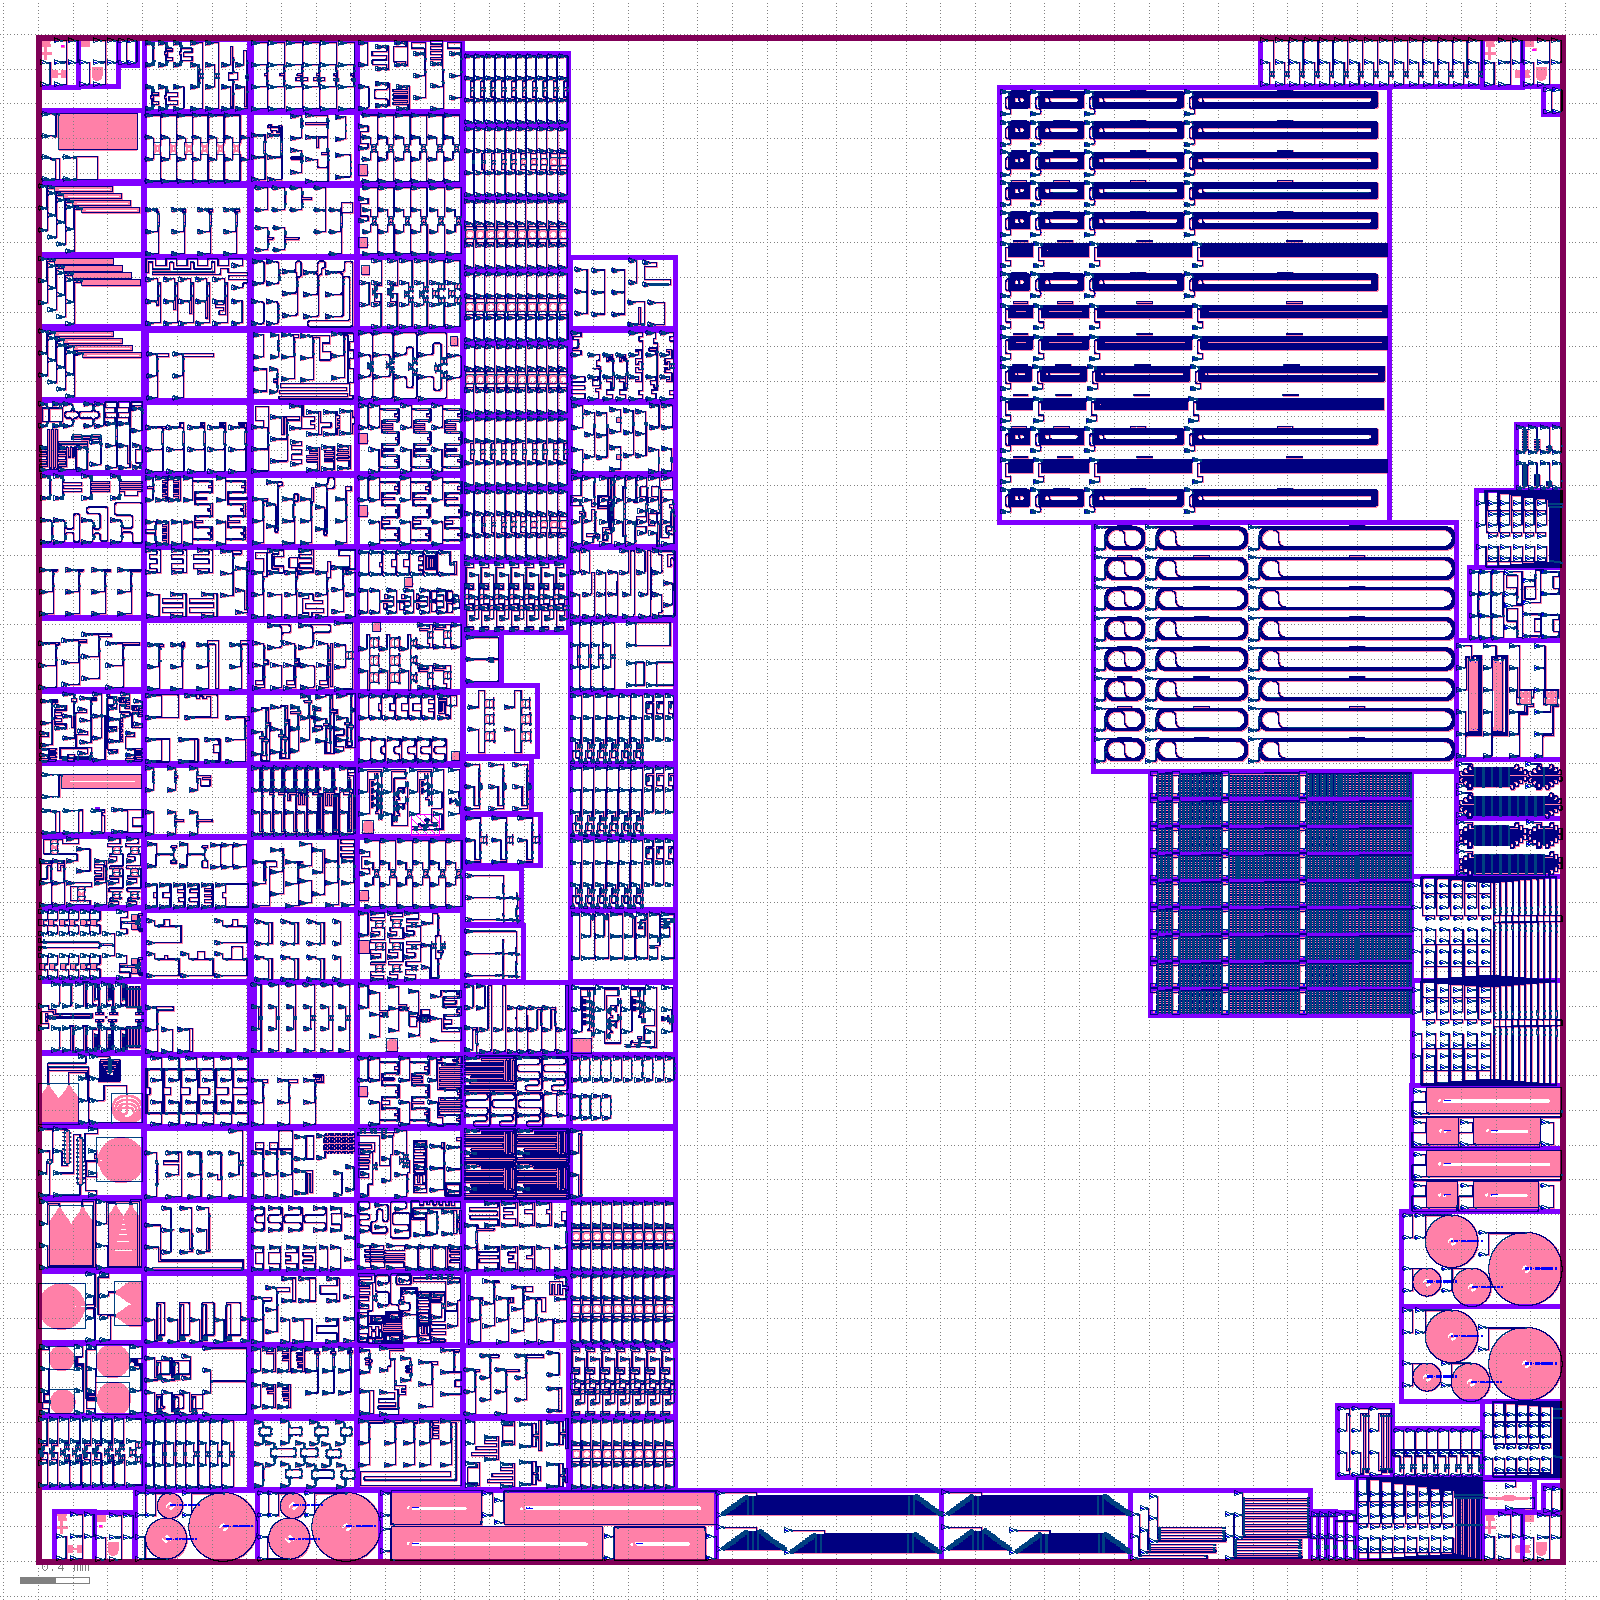
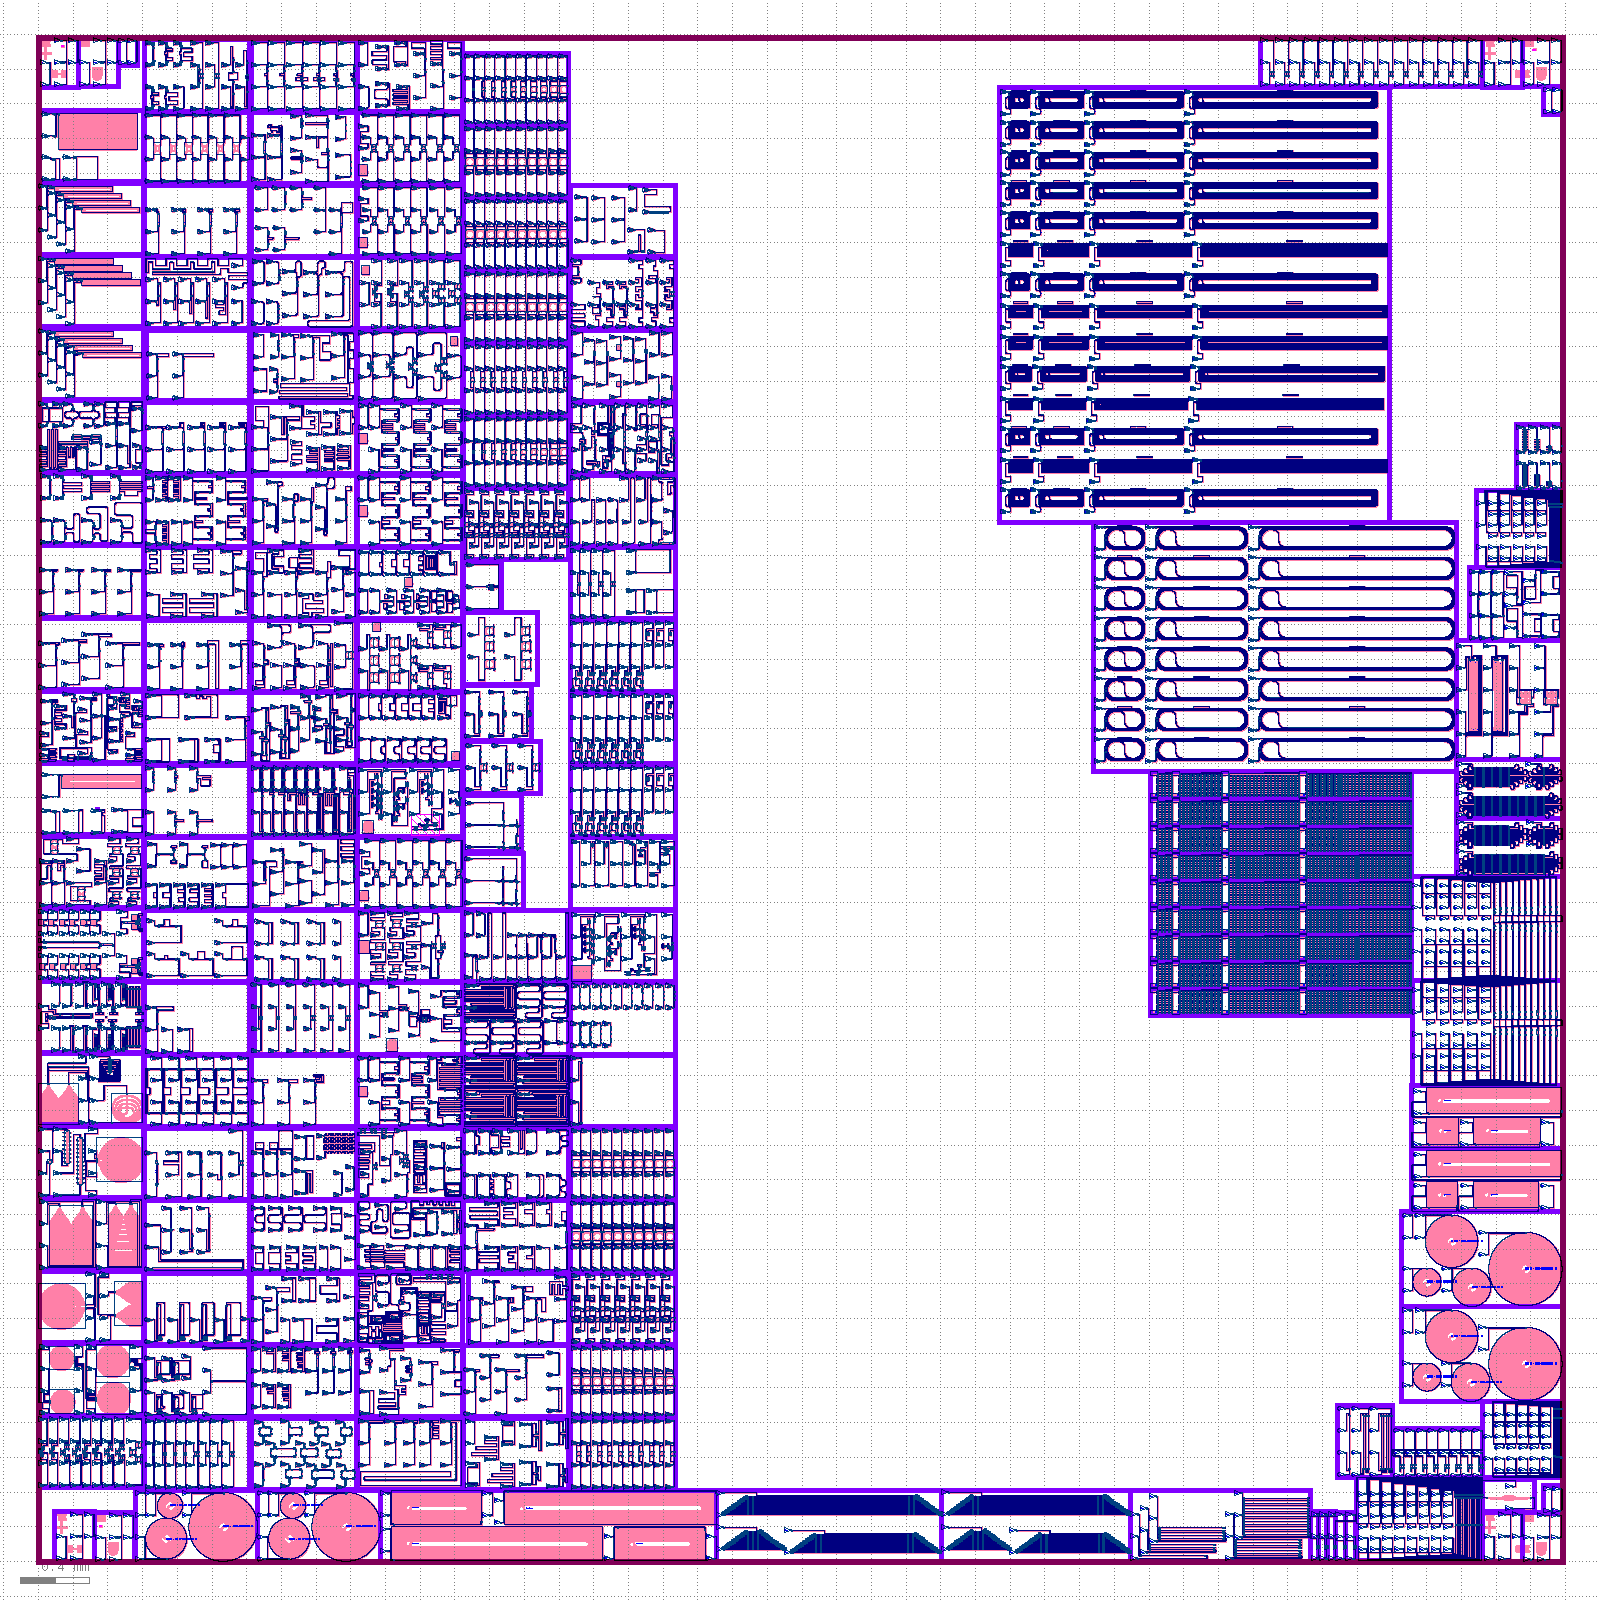
Aggregation layout: https://github.com/SiEPIC/openEBL-2026-05/actions/runs/25957570740/artifacts/7032029800

Changed region(s): [[0.2812, 0.0938, 0.4375, 0.9375], [0.3125, 0.0312, 0.375, 0.0625]]

diff --git a/README.md b/README.md
@@ -91,5 +91,5 @@ Will be added here.
 
 Click on the following link to download the EBeam.oas merged layout file:
 <!-- start-link -->
-https://github.com/SiEPIC/openEBL-2026-05/actions/runs/25956378053/artifacts/7031655098
+https://github.com/SiEPIC/openEBL-2026-05/actions/runs/25957570740/artifacts/7032029800
 <!-- end-link -->